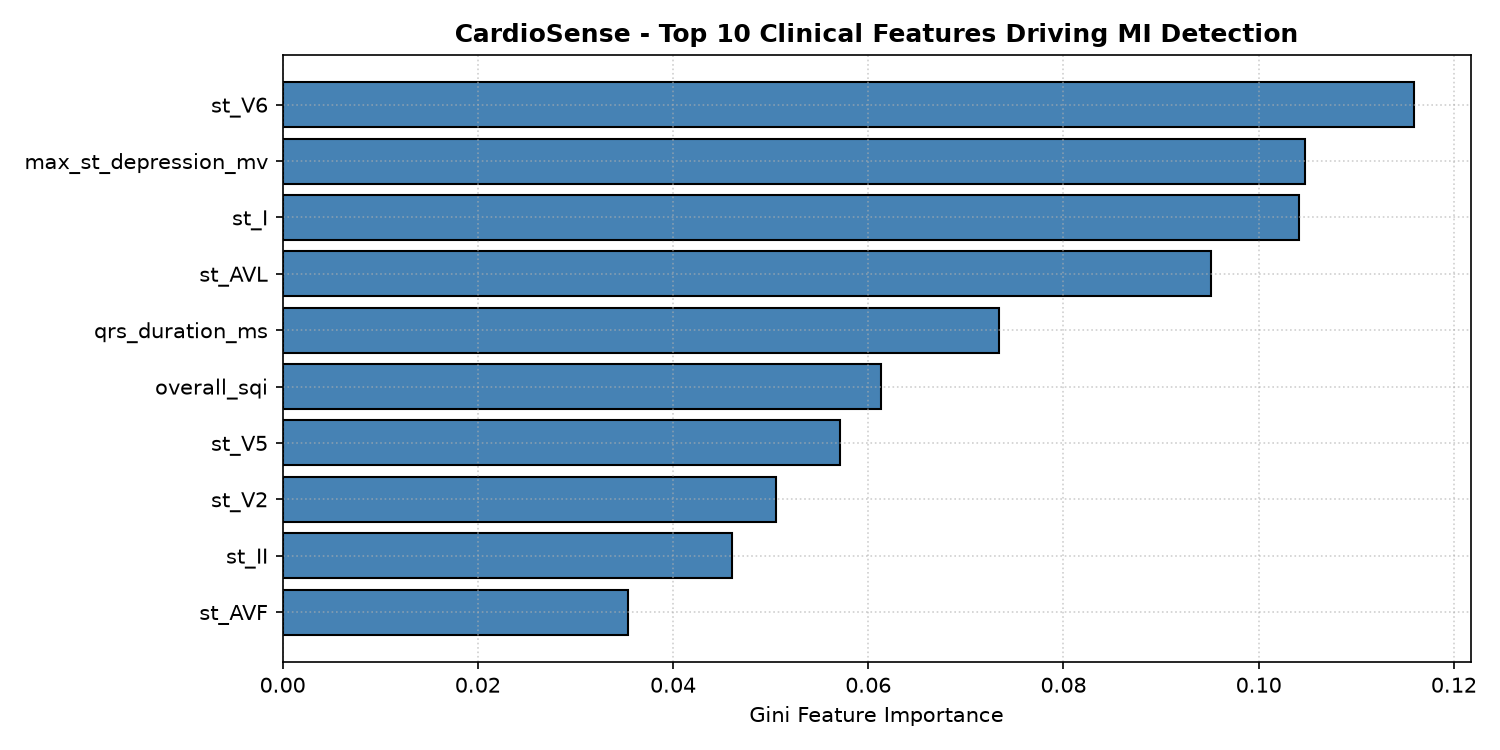
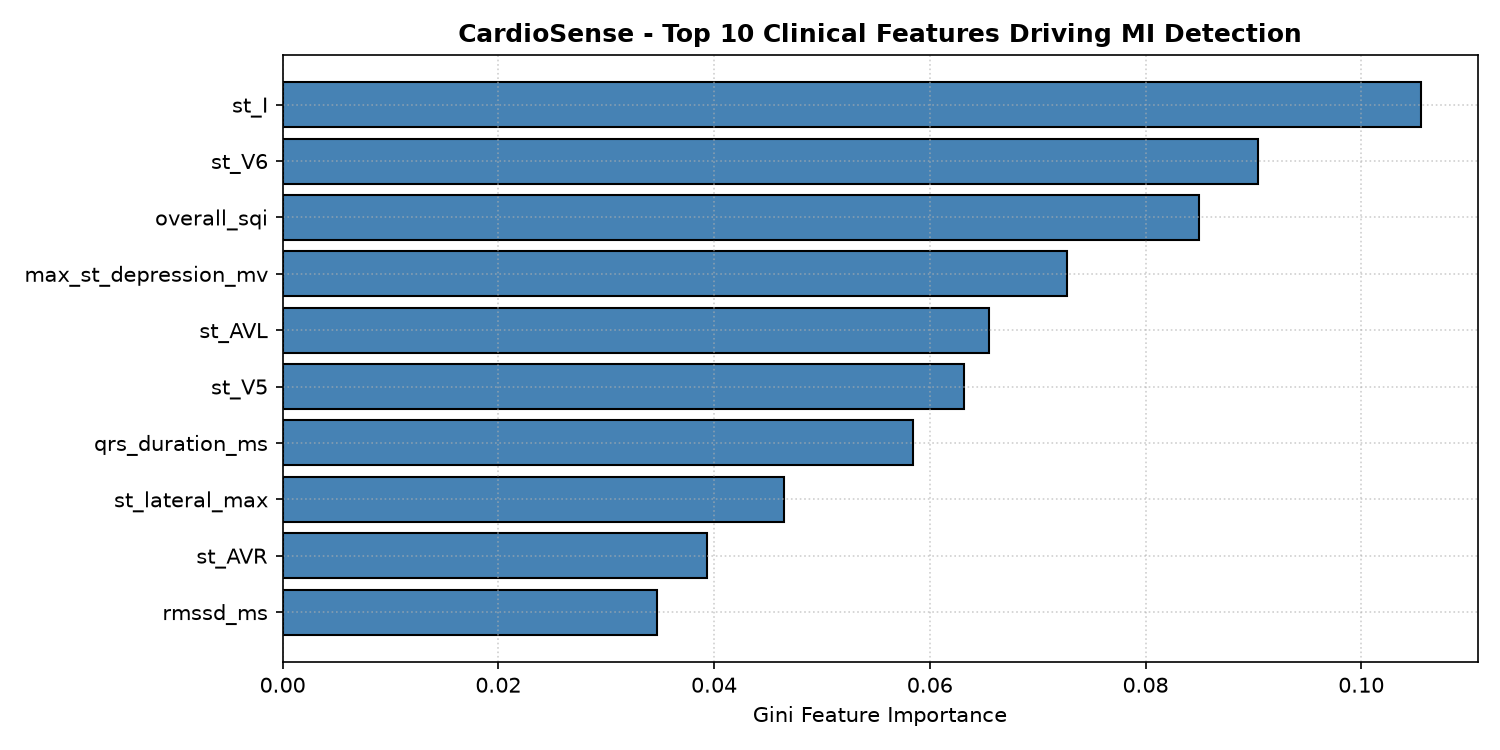
feat(models): add coronary territory features and dual-threshold clinical triage evaluation

diff --git a/src/models/train_interpretable.py b/src/models/train_interpretable.py
@@ -2,6 +2,7 @@
 CardioSense - Interpretable Baseline Classifier Training
 Trains and calibrates a Random Forest on extracted clinical features
 using official PTB-XL stratified train/test folds (Folds 1-8: Train, 9-10: Test).
+Reports both standard diagnostic and emergency triage operating points.
 """
 
 import sys
@@ -25,6 +26,8 @@ from sklearn.metrics import (
     roc_curve,
 )
 
+from src.features.extract_features import FEATURE_COLUMNS
+
 
 # ---------------------------------------------------------
 # Block 1: Load Clinical Features & Official Folds
@@ -33,13 +36,7 @@ def load_train_test_data(features_csv):
     """Splits data strictly using PTB-XL official benchmark folds."""
     df = pd.read_csv(features_csv)
 
-    feature_cols = [
-        "heart_rate_bpm", "mean_rr_sec", "sdnn_ms", "rmssd_ms", "qrs_duration_ms",
-        "max_st_elevation_mv", "max_st_depression_mv",
-        "st_I", "st_II", "st_III", "st_AVR", "st_AVL", "st_AVF",
-        "st_V1", "st_V2", "st_V3", "st_V4", "st_V5", "st_V6",
-        "overall_sqi",
-    ]
+    feature_cols = [c for c in FEATURE_COLUMNS if c in df.columns]
 
     # Official PTB-XL split: Folds 1-8 for training, Folds 9-10 for testing
     train_df = df[df["strat_fold"] <= 8]
@@ -79,36 +76,54 @@ def train_and_calibrate(X_train, y_train):
 
 
 # ---------------------------------------------------------
-# Block 3: Clinical Performance Evaluation
+# Block 3: Clinical Performance Evaluation (Dual Operating Points)
 # ---------------------------------------------------------
-def evaluate_clinical_metrics(model, X_test, y_test):
-    """Calculates cardiology-focused metrics: Sensitivity, Specificity, AUC."""
-    y_pred = model.predict(X_test)
+def evaluate_clinical_metrics(model, X_test, y_test, triage_threshold=0.35):
+    """
+    Calculates cardiology metrics at two operating thresholds:
+    1. Standard Diagnostic (0.50)
+    2. Emergency Triage (0.35, high-sensitivity rule-out)
+    """
     y_prob = model.predict_proba(X_test)[:, 1]
 
-    acc = accuracy_score(y_test, y_pred)
-    # Sensitivity (Recall): Did we detect actual heart attacks?
-    sensitivity = recall_score(y_test, y_pred, pos_label=1)
-    
-    # Specificity: True Negative Rate (avoiding false hospital alarms)
-    cm = confusion_matrix(y_test, y_pred)
-    tn, fp, fn, tp = cm.ravel()
-    specificity = tn / (tn + fp) if (tn + fp) > 0 else 0.0
+    # 1. Standard Diagnostic Threshold (0.50)
+    y_pred_std = (y_prob >= 0.50).astype(int)
+    acc_std = accuracy_score(y_test, y_pred_std)
+    sens_std = recall_score(y_test, y_pred_std, pos_label=1)
+    cm_std = confusion_matrix(y_test, y_pred_std)
+    tn_std, fp_std, fn_std, tp_std = cm_std.ravel()
+    spec_std = tn_std / (tn_std + fp_std) if (tn_std + fp_std) > 0 else 0.0
+
+    # 2. Emergency Triage Screening Threshold (0.35)
+    y_pred_tri = (y_prob >= triage_threshold).astype(int)
+    acc_tri = accuracy_score(y_test, y_pred_tri)
+    sens_tri = recall_score(y_test, y_pred_tri, pos_label=1)
+    cm_tri = confusion_matrix(y_test, y_pred_tri)
+    tn_tri, fp_tri, fn_tri, tp_tri = cm_tri.ravel()
+    spec_tri = tn_tri / (tn_tri + fp_tri) if (tn_tri + fp_tri) > 0 else 0.0
 
     auc = roc_auc_score(y_test, y_prob)
 
-    print("\n" + "=" * 55)
-    print("  CARDIOSENSE INTERPRETABLE MODEL - TEST RESULTS  ")
-    print("=" * 55)
-    print(f"Test Cohort Size       : {len(y_test)} patients (Folds 9-10)")
-    print(f"Accuracy               : {acc * 100:.1f}%")
-    print(f"Sensitivity (Catch MI) : {sensitivity * 100:.1f}%  <-- Most Critical")
-    print(f"Specificity (No False) : {specificity * 100:.1f}%")
-    print(f"ROC-AUC Score          : {auc:.3f}")
-    print("\nConfusion Matrix:")
-    print(f"  [TN: {tn:2d} | FP: {fp:2d}] (True Normal vs False Alarm)")
-    print(f"  [FN: {fn:2d} | TP: {tp:2d}] (Missed MI vs Detected MI)")
-    print("=" * 55)
+    print("\n" + "=" * 65)
+    print("      CARDIOSENSE INTERPRETABLE MODEL - TEST BENCHMARK      ")
+    print("=" * 65)
+    print(f"Test Cohort Size             : {len(y_test)} patients (Official Folds 9-10)")
+    print(f"ROC-AUC Discrimination       : {auc:.3f}")
+    print("-" * 65)
+    print("STANDARD DIAGNOSTIC OPERATING POINT (Threshold = 0.50):")
+    print(f"  Accuracy                   : {acc_std * 100:.1f}%")
+    print(f"  Sensitivity (Catch MI)     : {sens_std * 100:.1f}%")
+    print(f"  Specificity (Rule-out Norm): {spec_std * 100:.1f}%")
+    print(f"  Confusion Matrix           : [TN: {tn_std:2d} | FP: {fp_std:2d}] (True Normal vs False Alarm)")
+    print(f"                               [FN: {fn_std:2d} | TP: {tp_std:2d}] (Missed MI vs Detected MI)")
+    print("-" * 65)
+    print(f"ACUTE EMERGENCY TRIAGE OPERATING POINT (Threshold = {triage_threshold:.2f}):")
+    print(f"  Accuracy                   : {acc_tri * 100:.1f}%")
+    print(f"  Sensitivity (Catch MI)     : {sens_tri * 100:.1f}%  <-- Prioritized for Triage")
+    print(f"  Specificity (Rule-out Norm): {spec_tri * 100:.1f}%")
+    print(f"  Confusion Matrix           : [TN: {tn_tri:2d} | FP: {fp_tri:2d}]")
+    print(f"                               [FN: {fn_tri:2d} | TP: {tp_tri:2d}]")
+    print("=" * 65)
 
     return y_prob, auc
 
@@ -172,8 +187,8 @@ if __name__ == "__main__":
     # 2. Train and calibrate
     rf_base, cal_model = train_and_calibrate(X_tr, y_tr)
 
-    # 3. Evaluate
-    probs, auc_val = evaluate_clinical_metrics(cal_model, X_te, y_te)
+    # 3. Evaluate dual operating points
+    probs, auc_val = evaluate_clinical_metrics(cal_model, X_te, y_te, triage_threshold=0.35)
 
     # 4. Generate Figures 06 & 07
     plot_and_save_figures(rf_base, feat_names, y_te, probs, auc_val, figures_directory)

diff --git a/src/features/extract_features.py b/src/features/extract_features.py
@@ -1,12 +1,12 @@
 """
 CardioSense - End-to-End Clinical Feature Aggregator
-Integrates filtering, SQI quality control, rhythm detection, and 12-lead
-fiducial landmarking into a single structured clinical feature vector.
+Integrates filtering, SQI quality control, rhythm detection, 12-lead fiducial
+landmarking, and anatomical coronary territory groupings into a structured clinical feature vector.
 """
 
 import numpy as np
 
-# Import our modular DSP and feature extractors
+# Import modular DSP and feature extractors
 from src.dsp.filters import filter_ecg
 from src.dsp.sqi import assess_ecg_quality
 from src.features.r_peaks import detect_r_peaks, compute_hrv_features
@@ -16,7 +16,7 @@ from src.features.fiducials import analyze_12lead_features
 # ---------------------------------------------------------
 # Block 1: Standardized Feature Column Names
 # ---------------------------------------------------------
-# The exact ordered list of clinical features our ML model will expect
+# Ordered list of clinical biomarkers for the interpretable classifier (23 features)
 FEATURE_COLUMNS = [
     # Rhythm & Autonomic features
     "heart_rate_bpm",
@@ -28,6 +28,10 @@ FEATURE_COLUMNS = [
     # Global acute ischemia markers
     "max_st_elevation_mv",
     "max_st_depression_mv",
+    # Coronary Artery Territory markers (Contiguous ischemic burden)
+    "st_anterior_max",  # LAD territory (V1, V2, V3, V4)
+    "st_inferior_max",  # RCA territory (II, III, aVF)
+    "st_lateral_max",   # LCx territory (I, aVL, V5, V6)
     # Per-lead ST deviation (12 leads)
     "st_I",
     "st_II",
@@ -61,7 +65,7 @@ def extract_clinical_features(raw_signals, fs=100.0, lead_names=None):
     # 1. Zero-phase bandpass filter (0.5 - 40 Hz)
     cleaned_signals = filter_ecg(raw_signals, fs=fs, lowcut=0.5, highcut=40.0)
 
-    # 2. Automated Signal Quality Gate (SQI)
+    # 2. Automated Signal Quality Gatekeeper (SQI)
     sqi_result = assess_ecg_quality(cleaned_signals, lead_names=lead_names, accept_threshold=0.60)
     
     if not sqi_result["is_acceptable"]:
@@ -76,7 +80,6 @@ def extract_clinical_features(raw_signals, fs=100.0, lead_names=None):
     lead_ii_idx = lead_names.index("II") if "II" in lead_names else 1
     r_peaks = detect_r_peaks(cleaned_signals[:, lead_ii_idx], fs=fs)
 
-    # If rhythm is too aberrant or no beats found
     if len(r_peaks) < 2:
         return {
             "status": "rejected",
@@ -90,8 +93,17 @@ def extract_clinical_features(raw_signals, fs=100.0, lead_names=None):
 
     # 5. Extract 12-lead fiducial landmarks (ST deviations & QRS duration)
     landmarks = analyze_12lead_features(cleaned_signals, r_peaks, lead_names=lead_names, fs=fs)
+    st_by_lead = landmarks["st_by_lead"]
 
-    # 6. Assemble into structured clinical feature dictionary
+    # 6. Anatomical Coronary Artery Territory Maximums
+    # LAD (Left Anterior Descending) territory: V1-V4
+    st_anterior_max = max(st_by_lead.get(ld, 0.0) for ld in ["V1", "V2", "V3", "V4"])
+    # RCA (Right Coronary Artery) territory: II, III, aVF
+    st_inferior_max = max(st_by_lead.get(ld, 0.0) for ld in ["II", "III", "AVF"])
+    # LCx (Left Circumflex) territory: I, aVL, V5, V6
+    st_lateral_max = max(st_by_lead.get(ld, 0.0) for ld in ["I", "AVL", "V5", "V6"])
+
+    # 7. Assemble into structured clinical feature dictionary
     features = {
         "heart_rate_bpm": hrv["heart_rate_bpm"],
         "mean_rr_sec": hrv["mean_rr_sec"],
@@ -100,13 +112,16 @@ def extract_clinical_features(raw_signals, fs=100.0, lead_names=None):
         "qrs_duration_ms": landmarks["qrs_duration_ms"],
         "max_st_elevation_mv": landmarks["max_st_elevation_mv"],
         "max_st_depression_mv": landmarks["max_st_depression_mv"],
+        "st_anterior_max": round(float(st_anterior_max), 3),
+        "st_inferior_max": round(float(st_inferior_max), 3),
+        "st_lateral_max": round(float(st_lateral_max), 3),
         "overall_sqi": sqi_result["overall_sqi"],
     }
 
-    # Add each lead's ST deviation with standard naming (e.g., 'st_V2')
+    # Add each individual lead's ST deviation
     for lead in lead_names:
         key = f"st_{lead.upper()}"
-        features[key] = landmarks["st_by_lead"].get(lead, 0.0)
+        features[key] = st_by_lead.get(lead, 0.0)
 
     return {
         "status": "success",
